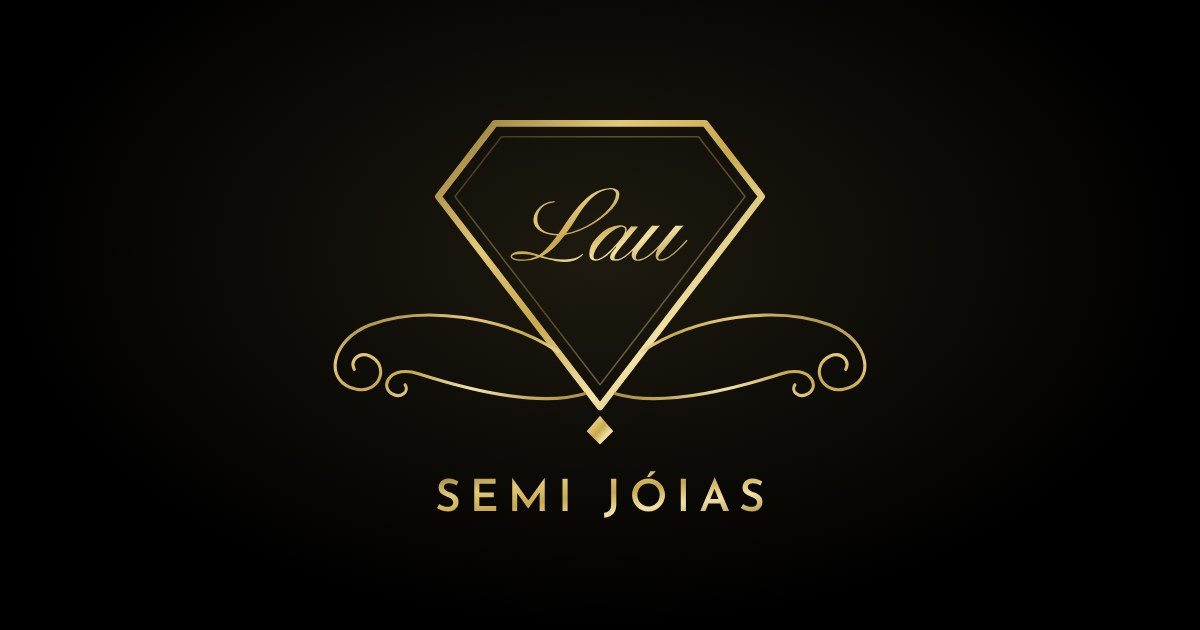
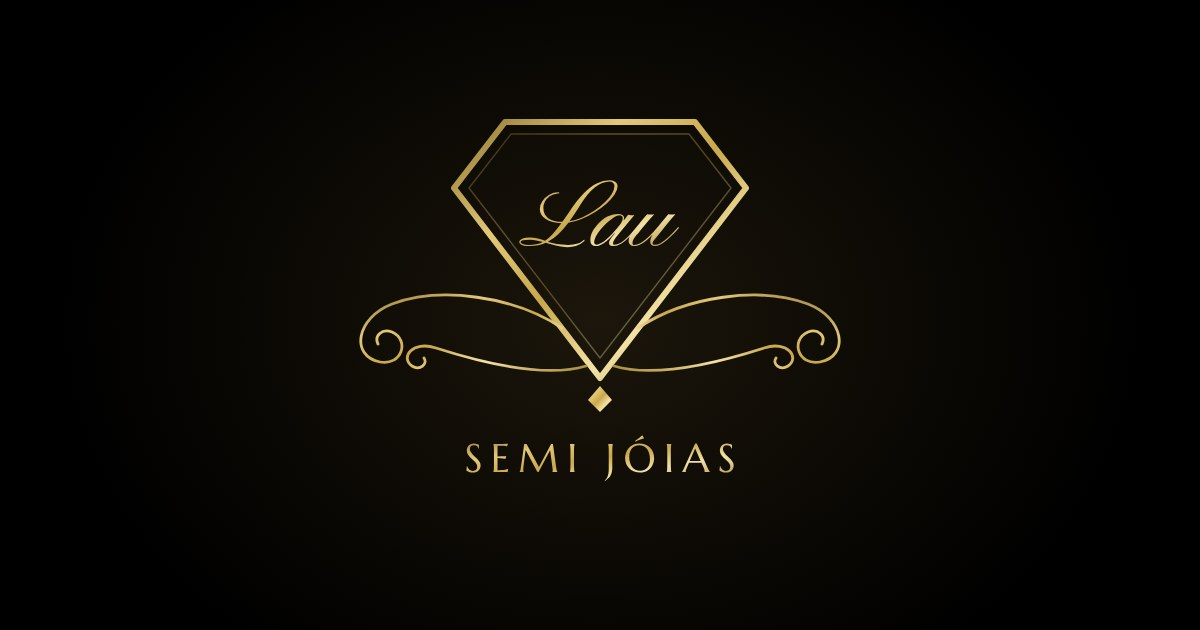
Usa Marcellus também no SEMI JÓIAS da marca

Changed region(s): [[0.2775, 0.181, 0.74, 0.8143]]

diff --git a/index.html b/index.html
@@ -15,7 +15,7 @@
   <link rel="icon" href="img/favicon.svg" type="image/svg+xml">
   <link rel="preconnect" href="https://fonts.googleapis.com">
   <link rel="preconnect" href="https://fonts.gstatic.com" crossorigin>
-  <link href="https://fonts.googleapis.com/css2?family=Marcellus&family=Josefin+Sans:wght@600&family=Figtree:wght@400;500;600;700&display=swap" rel="stylesheet">
+  <link href="https://fonts.googleapis.com/css2?family=Marcellus&family=Figtree:wght@400;500;600;700&display=swap" rel="stylesheet">
   <style>
     :root {
       --velvet: #050403;
@@ -32,7 +32,7 @@
       --sheen: linear-gradient(120deg, #8E7330 0%, #E8D08A 35%, #C9A84C 55%, #F3E2A6 78%, #A8893A 100%);
       --serif: 'Marcellus', Georgia, serif;
       --sans: 'Figtree', system-ui, sans-serif;
-      --brand: 'Josefin Sans', var(--sans);
+      --brand: 'Marcellus', var(--serif);
       --wrap: 1200px;
       --gutter: clamp(20px, 4vw, 40px);
     }
@@ -58,7 +58,7 @@
     .top .wrap { display: grid; grid-template-columns: 1fr auto 1fr; align-items: center; gap: 16px; height: 72px; }
     .logo { display: inline-flex; align-items: center; gap: 12px; text-decoration: none; color: var(--gold-l); justify-self: start; }
     .logo img { height: 40px; width: auto; }
-    .logo span { font-family: var(--brand); font-weight: 600; font-size: 14px; letter-spacing: .24em; padding-top: 3px; }
+    .logo span { font-family: var(--brand); font-weight: 400; font-size: 16px; letter-spacing: .24em; padding-top: 3px; }
     .nav { display: flex; gap: 32px; font-size: 15px; }
     .nav a { text-decoration: none; color: var(--muted); transition: color .2s; }
     .nav a:hover { color: var(--ivory); }

diff --git a/pedido.html b/pedido.html
@@ -8,7 +8,7 @@
   <link rel="icon" href="img/favicon.svg" type="image/svg+xml">
   <link rel="preconnect" href="https://fonts.googleapis.com">
   <link rel="preconnect" href="https://fonts.gstatic.com" crossorigin>
-  <link href="https://fonts.googleapis.com/css2?family=Marcellus&family=Josefin+Sans:wght@600&family=Figtree:wght@400;500;600;700&display=swap" rel="stylesheet">
+  <link href="https://fonts.googleapis.com/css2?family=Marcellus&family=Figtree:wght@400;500;600;700&display=swap" rel="stylesheet">
   <style>
     :root { --black: #000; --gold: #C9A84C; --gold-l: #E3C878; --gold-d: #8E7330; --ivory: #EDE6D6; --muted: #9C9484; --rule: rgba(201,168,76,.26); }
     * { margin: 0; padding: 0; box-sizing: border-box; }
@@ -17,7 +17,7 @@
     header { border-bottom: 1px solid var(--rule); padding: 16px 24px; }
     .logo { display: inline-flex; align-items: center; gap: 12px; text-decoration: none; color: var(--gold-l); }
     .logo img { height: 42px; width: auto; }
-    .logo span { font-family: 'Josefin Sans', sans-serif; font-weight: 600; font-size: 15px; letter-spacing: .22em; padding-top: 3px; }
+    .logo span { font-family: 'Marcellus', serif; font-weight: 400; font-size: 15px; letter-spacing: .22em; padding-top: 3px; }
     main { max-width: 620px; margin: 0 auto; padding: 56px 24px 80px; }
     .num { color: var(--muted); font-size: 15px; margin-bottom: 8px; }
     h1 { font-family: 'Marcellus', serif; font-weight: 400; font-size: clamp(32px, 6vw, 46px); line-height: 1.08; margin-bottom: 16px; }

diff --git a/privacidade.html b/privacidade.html
@@ -7,7 +7,7 @@
   <link rel="icon" href="img/favicon.svg" type="image/svg+xml">
   <link rel="preconnect" href="https://fonts.googleapis.com">
   <link rel="preconnect" href="https://fonts.gstatic.com" crossorigin>
-  <link href="https://fonts.googleapis.com/css2?family=Marcellus&family=Josefin+Sans:wght@600&family=Figtree:wght@400;500;600;700&display=swap" rel="stylesheet">
+  <link href="https://fonts.googleapis.com/css2?family=Marcellus&family=Figtree:wght@400;500;600;700&display=swap" rel="stylesheet">
   <style>
     :root { --black: #000; --gold-l: #E3C878; --ivory: #EDE6D6; --muted: #9C9484; --rule: rgba(201,168,76,.26); }
     * { margin: 0; padding: 0; box-sizing: border-box; }
@@ -15,7 +15,7 @@
     header { border-bottom: 1px solid var(--rule); padding: 16px 24px; }
     .logo { display: inline-flex; align-items: center; gap: 12px; text-decoration: none; color: var(--gold-l); }
     .logo img { height: 42px; width: auto; }
-    .logo span { font-family: 'Josefin Sans', sans-serif; font-weight: 600; font-size: 15px; letter-spacing: .22em; padding-top: 3px; }
+    .logo span { font-family: 'Marcellus', serif; font-weight: 400; font-size: 15px; letter-spacing: .22em; padding-top: 3px; }
     main { max-width: 680px; margin: 0 auto; padding: 48px 24px 80px; }
     h1 { font-family: 'Marcellus', serif; font-weight: 400; font-size: 40px; line-height: 1.1; margin-bottom: 24px; }
     h2 { font-family: 'Marcellus', serif; font-weight: 400; font-size: 22px; color: var(--gold-l); margin: 32px 0 8px; }
